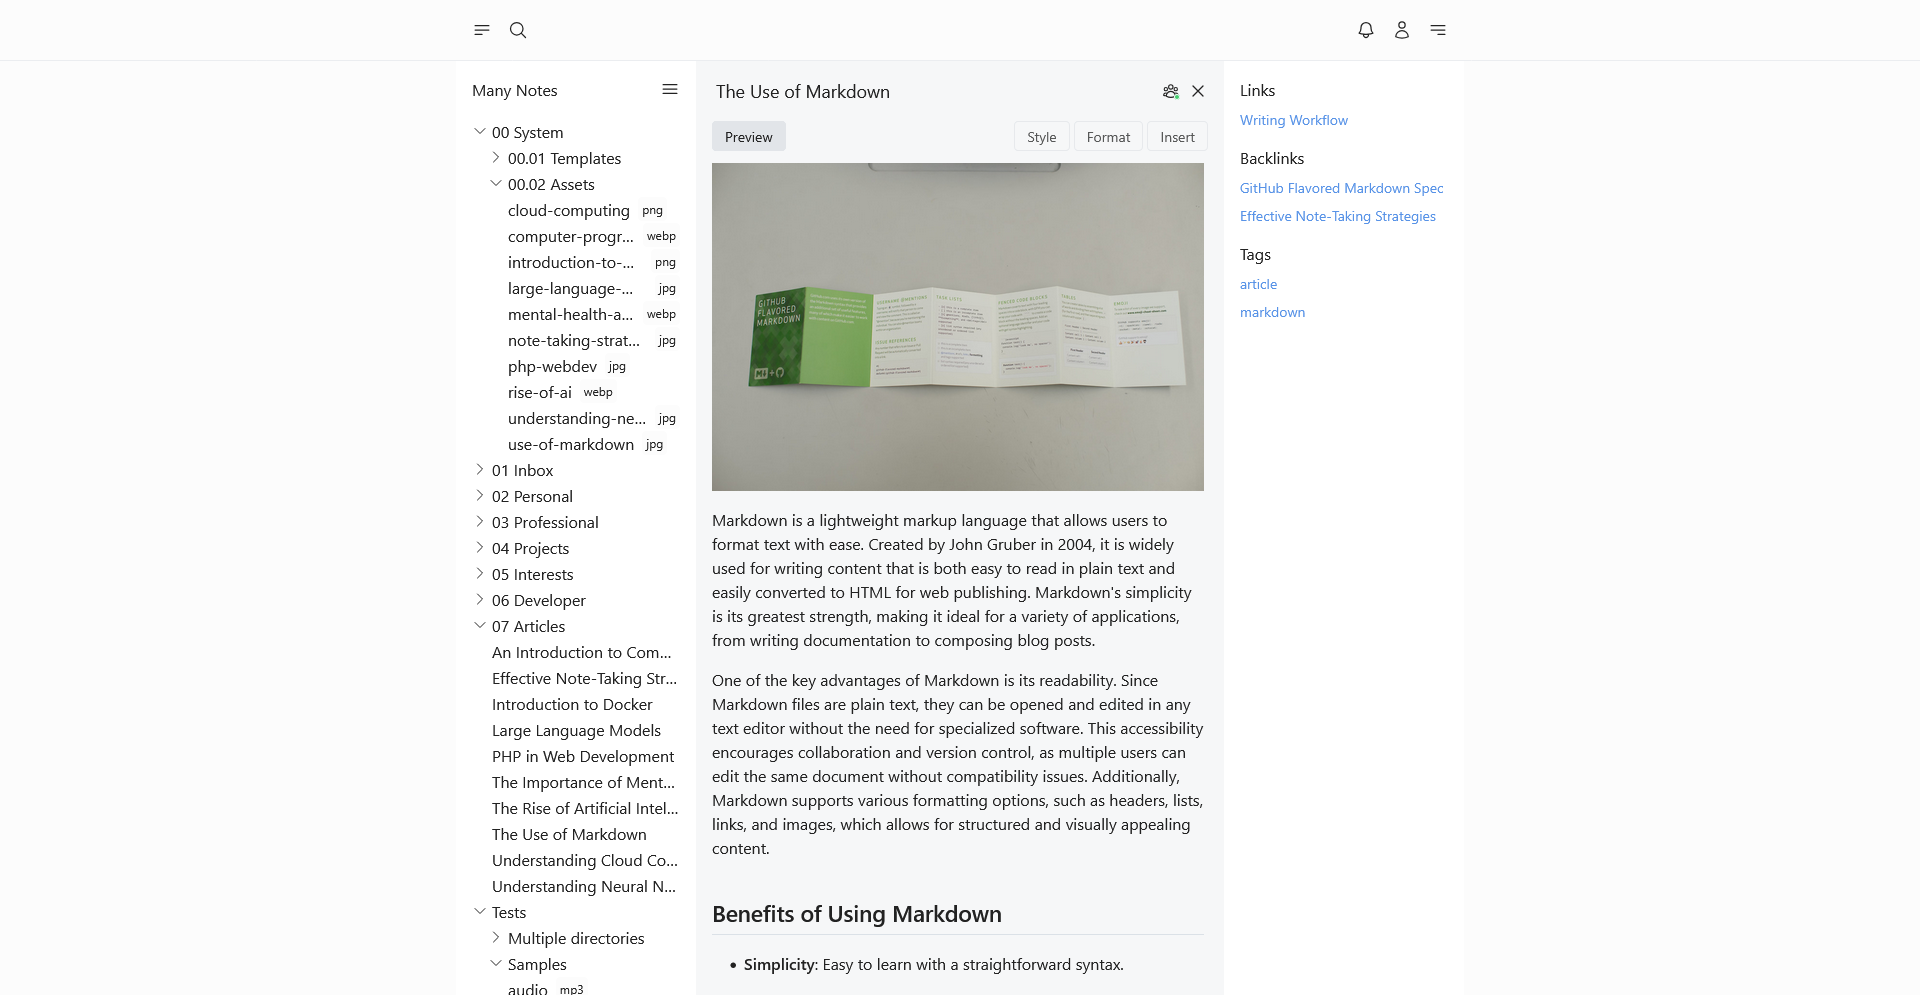
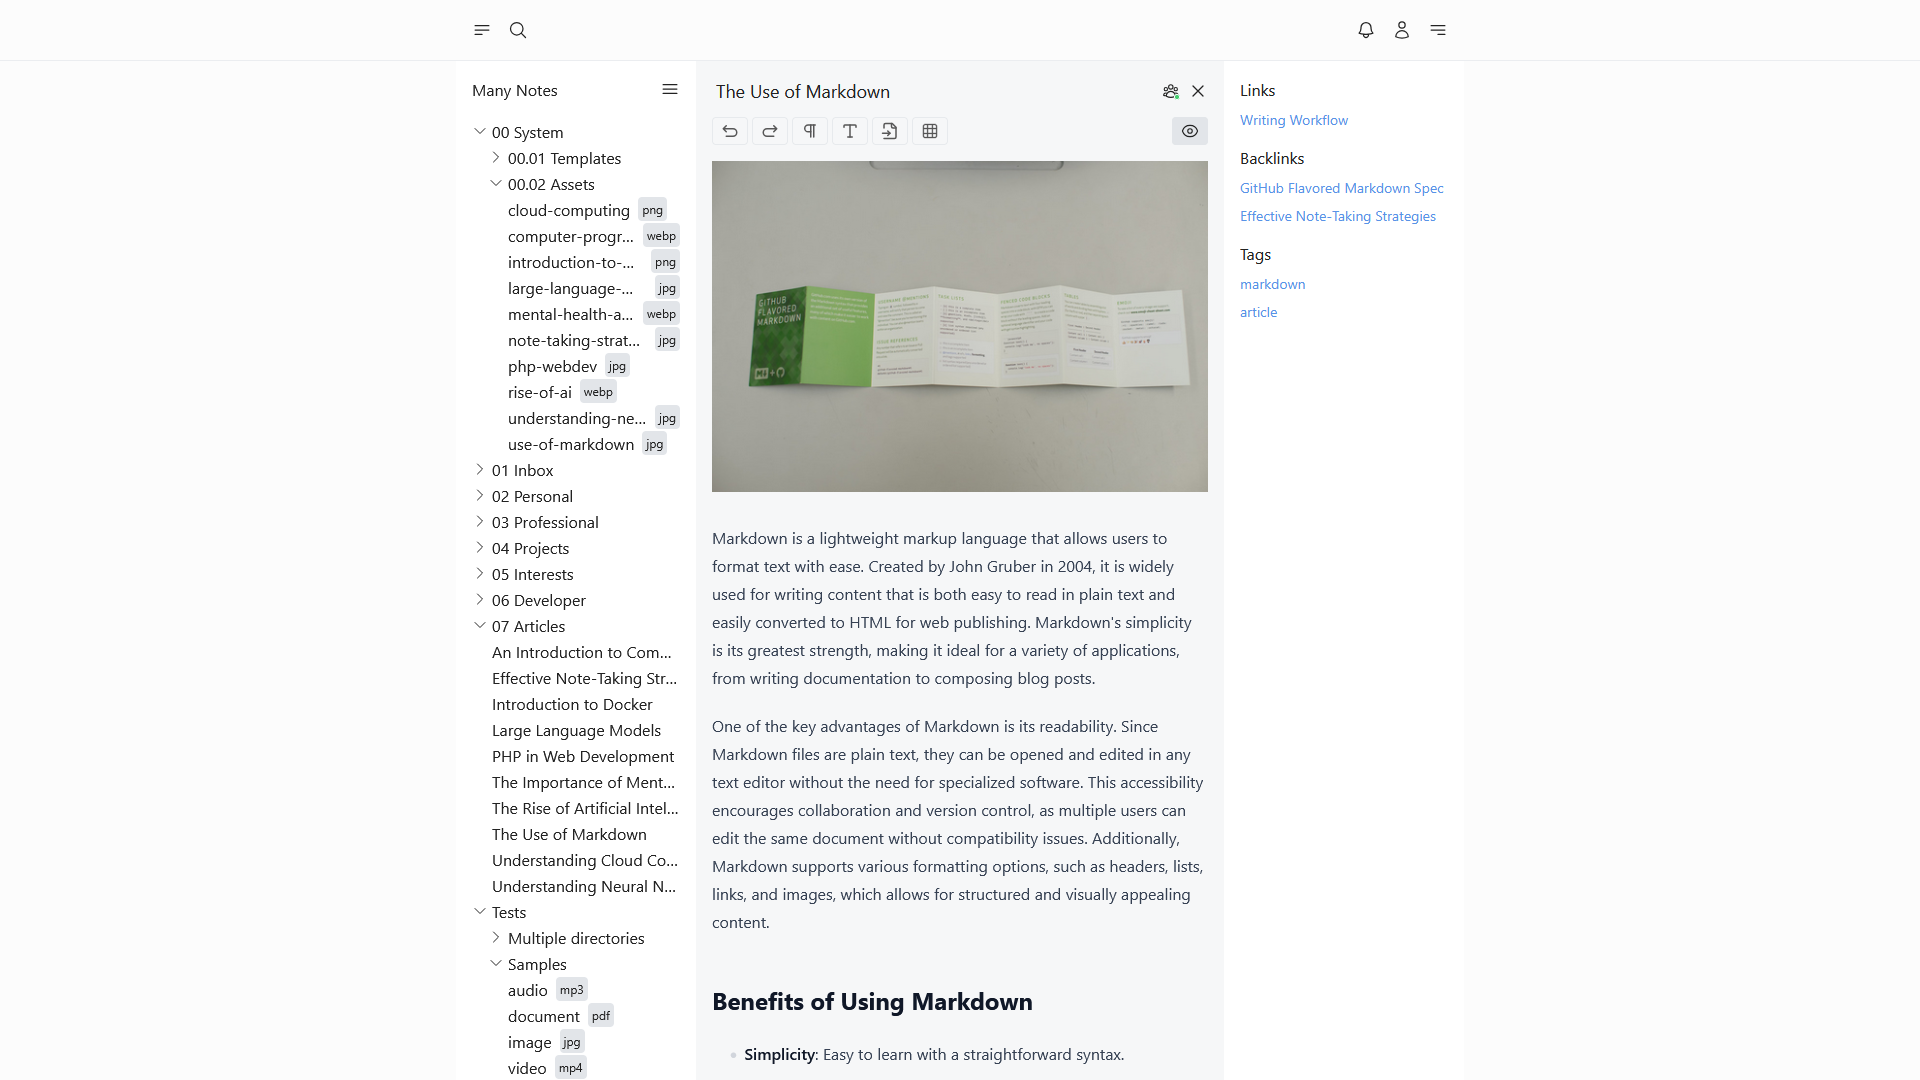
Update screenshots

Changed region(s): [[0.25, 0.0623, 0.75, 1.0], [0.375, 0.9658, 0.5938, 0.997], [0.375, 0.9035, 0.5312, 0.9347]]

diff --git a/README.md b/README.md
@@ -15,13 +15,10 @@ It uses a database to power its features, but your files are also saved in the f
 
 Vaults are simply storage containers for your files, and Many Notes lets you choose to keep all your files in one vault or organize them into separate vaults.
 
-## Screenshots
+## Preview
 
 ![Screenshot](art/theme-light.png?raw=true)
 *Light theme*
-
-![Screenshot](art/theme-dark.png?raw=true)
-*Dark theme*
 
 ## Features
 
